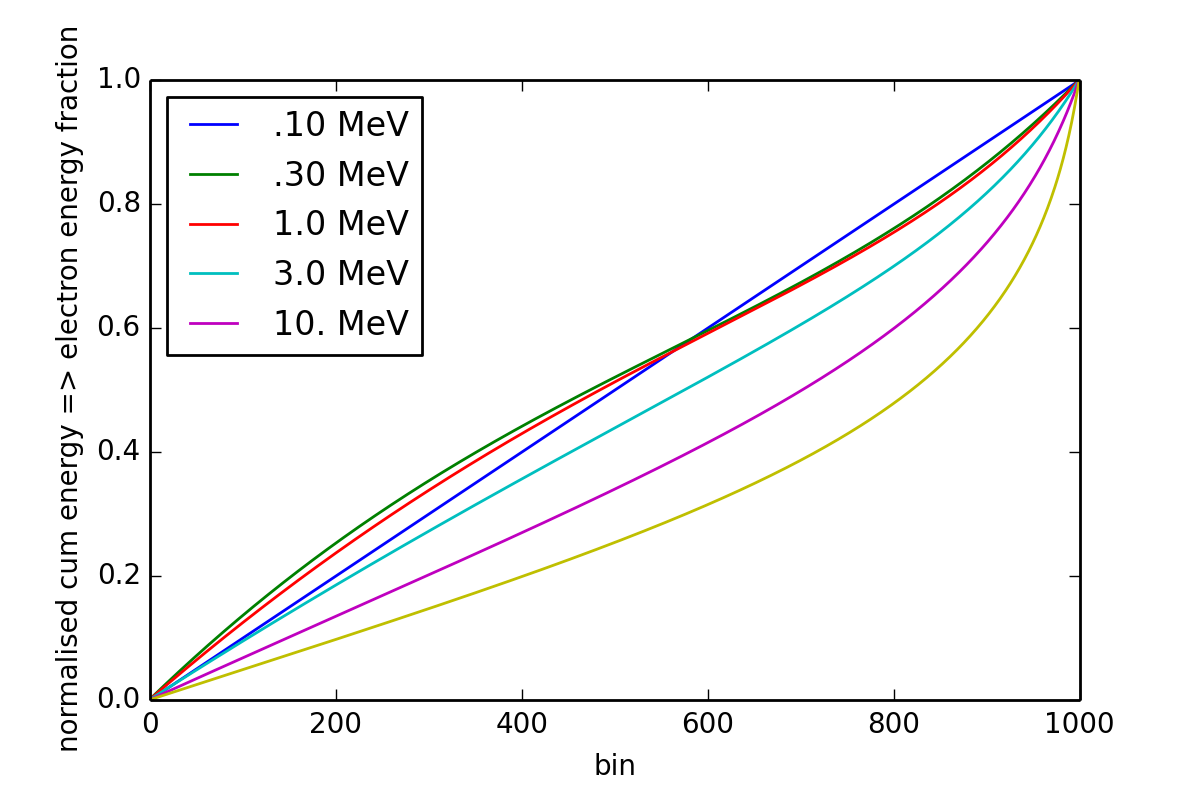
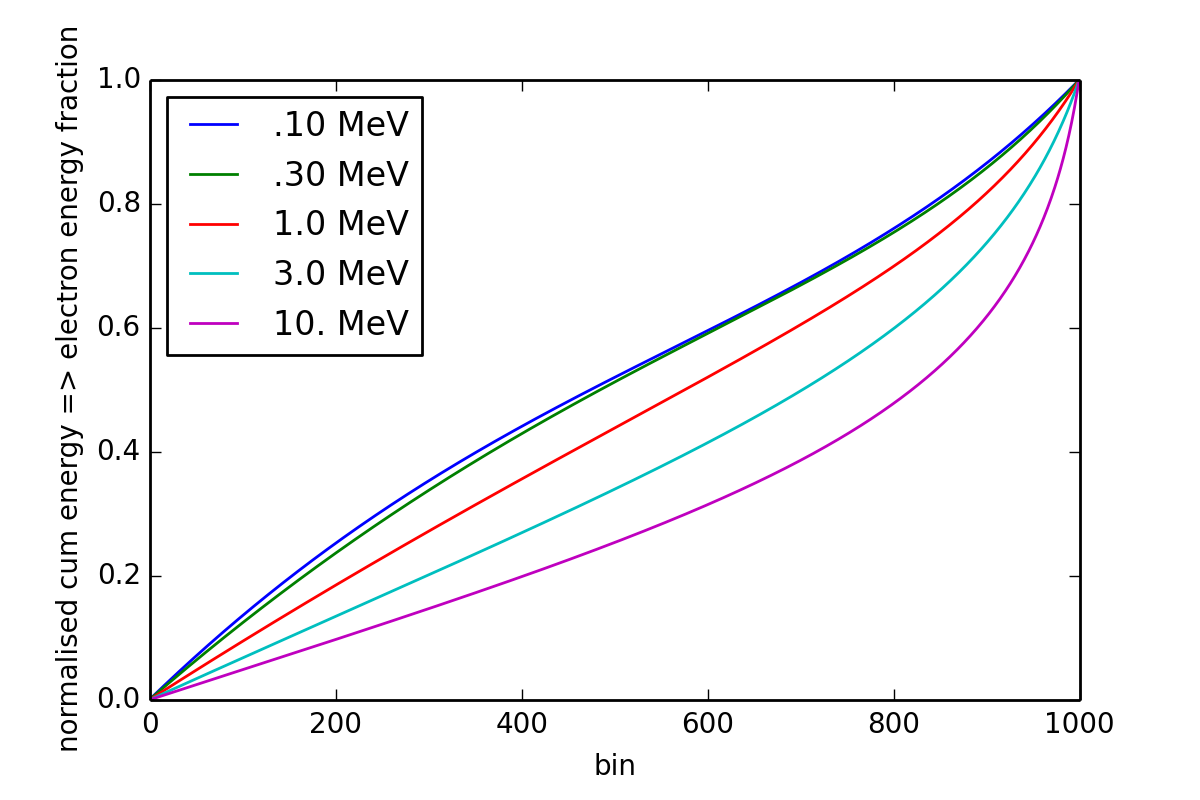
corrected figures for 5jan2015 presentation

diff --git a/photons/electron_energy_distribution.py b/photons/electron_energy_distribution.py
@@ -23,7 +23,7 @@ def plot_T_vs_E():
 
     E = np.logspace(-1,2,100)
 
-    T = [calc_AVERGE_fraction(Egamma) for Egamma in E]
+    T = [calc_AVERAGE_fraction(Egamma) for Egamma in E]
 
     plt.figure()
     plt.plot(E,T)
@@ -71,18 +71,20 @@ def cumulative_energy_distribution(Egamma):
 #
 def plot_series_cum_distr():
 
-    E = np.logspace(-1,1,15)
+    E = [0.1, 0.3, 1., 3. ,10. ]
 
     plt.figure()
     y = np.linspace(0,1000,10)
-    plt.plot(y,y/1000)  # ploy y = x (normalised)
+    #plt.plot(y,y/1000)  # ploy y = x (normalised)
     for Energy in E:
         n = cumulative_energy_distribution(Energy)
         plt.plot(n)
 
-    plt.title('cum energy distr for compton scattering')
+#    plt.title('cum energy distr for compton scattering')
     plt.ylabel('normalised cum energy => electron energy fraction')
     plt.xlabel('bin')
+    plt.legend(['.10 MeV', '.30 MeV', '1.0 MeV', '3.0 MeV', '10. MeV'], loc=2)
+    plt.savefig('cum-energy.png', dpi=200)
 
 # normalize x-value from 0..1
 # distribution is a list [] with y-values
@@ -110,13 +112,13 @@ def leastsq_fit_polynomial(x_values, y_values):
 
 if __name__=='__main__':
 
-    print "This is calc_T_from_cross_section.py!\n"
+    print "This is electron_energy_distribution.py!\n"
 #    E = [0.511, 1.0, 2.5]
 #    plt.figure()
 #    for Energy in E:
 #        plot_energy_distribution(Energy)
 
-#    plot_series_cum_distr()
+    plot_series_cum_distr()
 
     E = np.logspace(-1,1,20)
     x = np.linspace(0.,1.,1000)

diff --git a/photons/interaction_probability.py b/photons/interaction_probability.py
@@ -20,18 +20,20 @@ def plot_P_compton_and_fit():
     # maak plotje
     plt.figure()
     plt.plot(E,kans)
-#    plt.xscale('log')
+    plt.xscale('log')
 #    plt.yscale('log')
     plt.ylabel('Interaction probability')
     plt.xlabel('photon energy (MeV)')
-    plt.title('Interaction probability in 2cm VinylToluene scinitilator for Compton scattering')
-    #plt.savefig('P_Compton-log.png')
+    #plt.title('Interaction probability in 2cm VinylToluene scinitilator for Compton scattering')
+    plt.legend(['Klein-Nisihina','fit'])
+    plt.savefig('P_Compton.png',dpi=200)
 
     popt, pcov = curve_fit(exp_func, E, kans, p0=(1, 1, 1))
 
     fit = exp_func(E, popt[0], popt[1], popt[2])
     plt.plot(E, fit, label="Line 1", linestyle='--')
-    #plt.savefig('fit.png')
+    plt.legend(['Klein-Nisihina','fit'])
+    plt.savefig('P_fit.png',dpi=200)
 
     return popt
 

diff --git a/photons/calc_T_from_cross_sections.py b/photons/calc_T_from_cross_sections.py
@@ -38,8 +38,12 @@ def plot_energy_distribution(Egamma):
 
     T = [dsigma_dT(Egamma, EE)/1e-28 for EE in E]
 
-    plt.plot(E,T)
-    plt.plot([E[-1],E[-1]], [0.,T[-1]],'k-') # plot the edge
+    # add "the edge"
+    T.append(0)
+    EE = list(E) # np.array() heeft geen .append
+    EE.append(EE[-1]) # voeg het laatste item nogmaals toe
+
+    plt.plot(EE,T)
     plt.ylabel('cross section [barn]')
     plt.xlabel('Electron energy [MeV]')
     plt.title('electron energy distribution')
